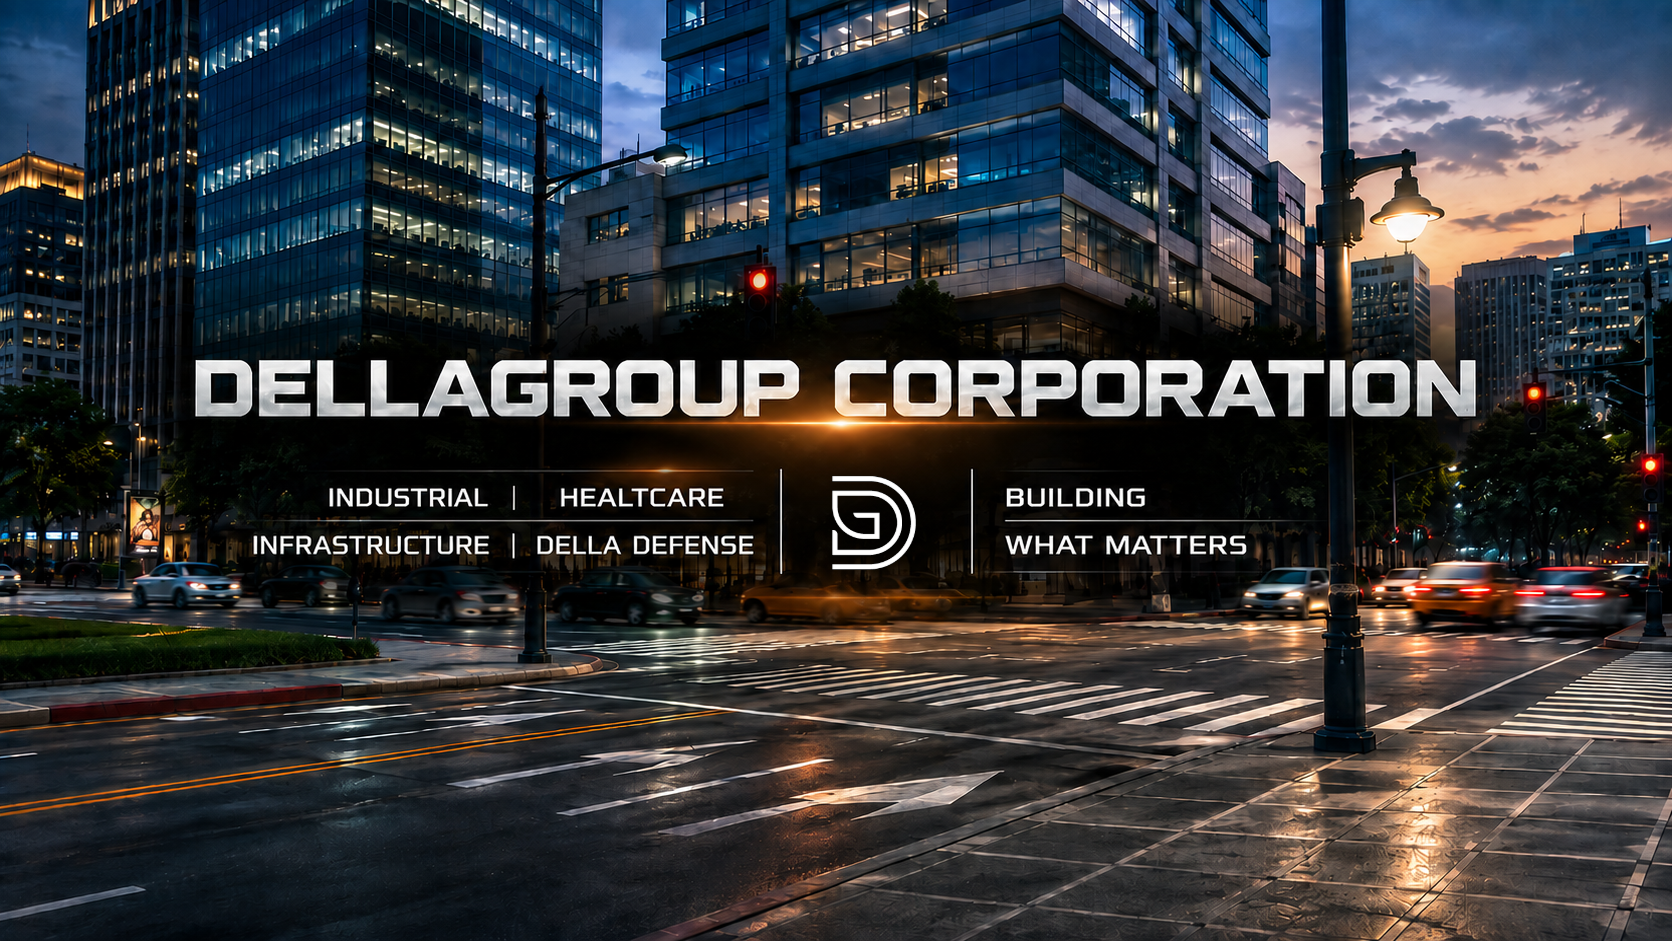
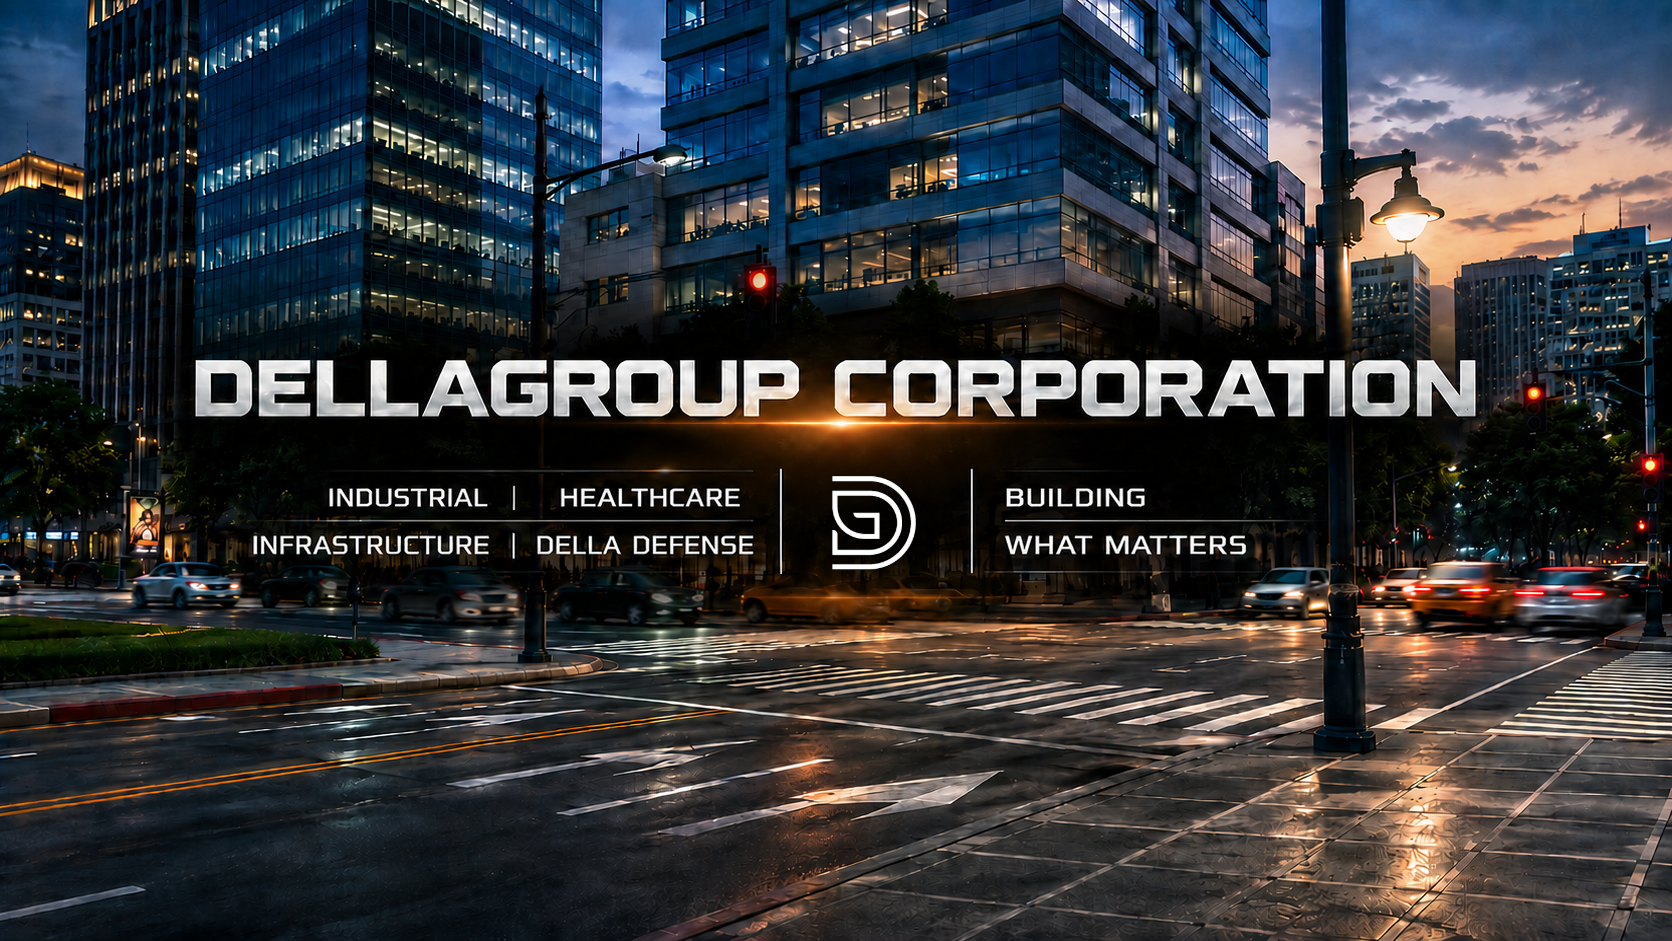
Update

diff --git a/assets/css/index.css b/assets/css/index.css
@@ -680,7 +680,7 @@ body {
 
 .unit-defense {
     background-color: #b3b3b3;
-    background-image: url("/assets/images/img/Defense2.png");
+    background-image: url("/assets/images/img/defense/DELLADEFENSE3.png");
 }
 
 .unit-card::before {
@@ -2731,7 +2731,7 @@ video {
     }
 
     .unit-defense {
-        background-image: url("/assets/images/img/Defense2.png") !important;
+        background-image: url("/assets/images/img/defense/DELLADEFENSE3.png") !important;
     }
 
     .sector-grid {
